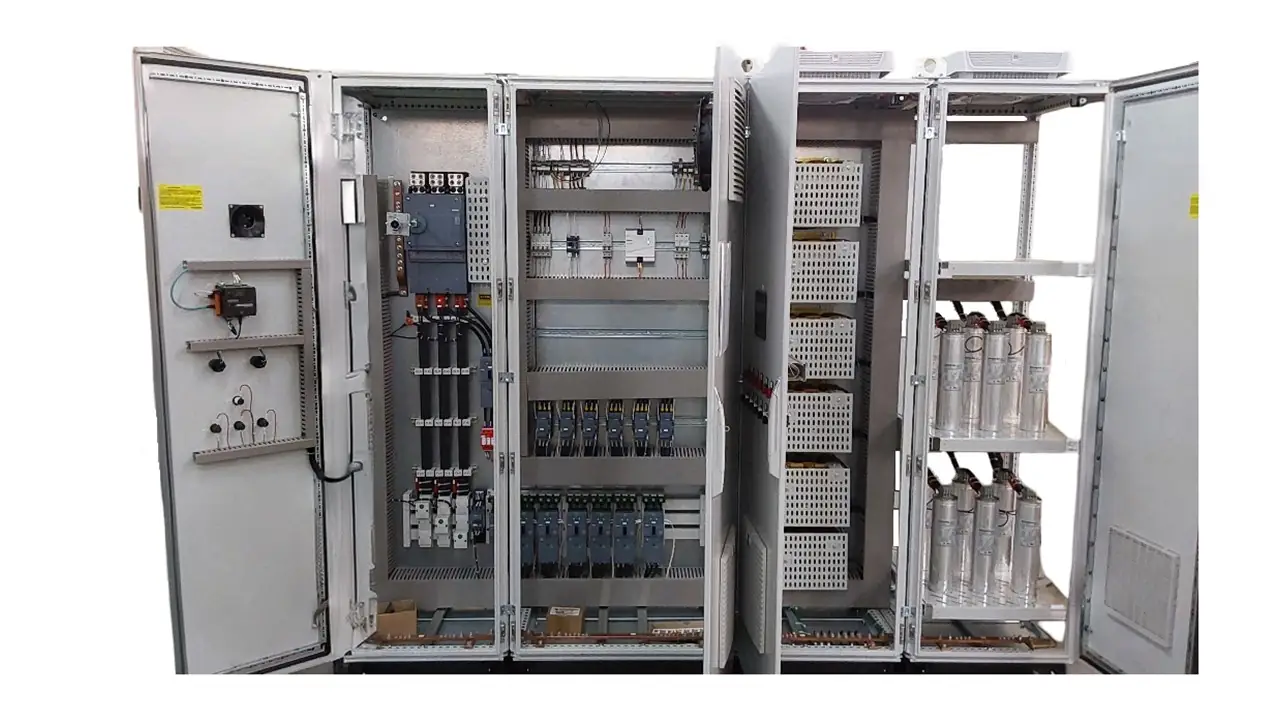
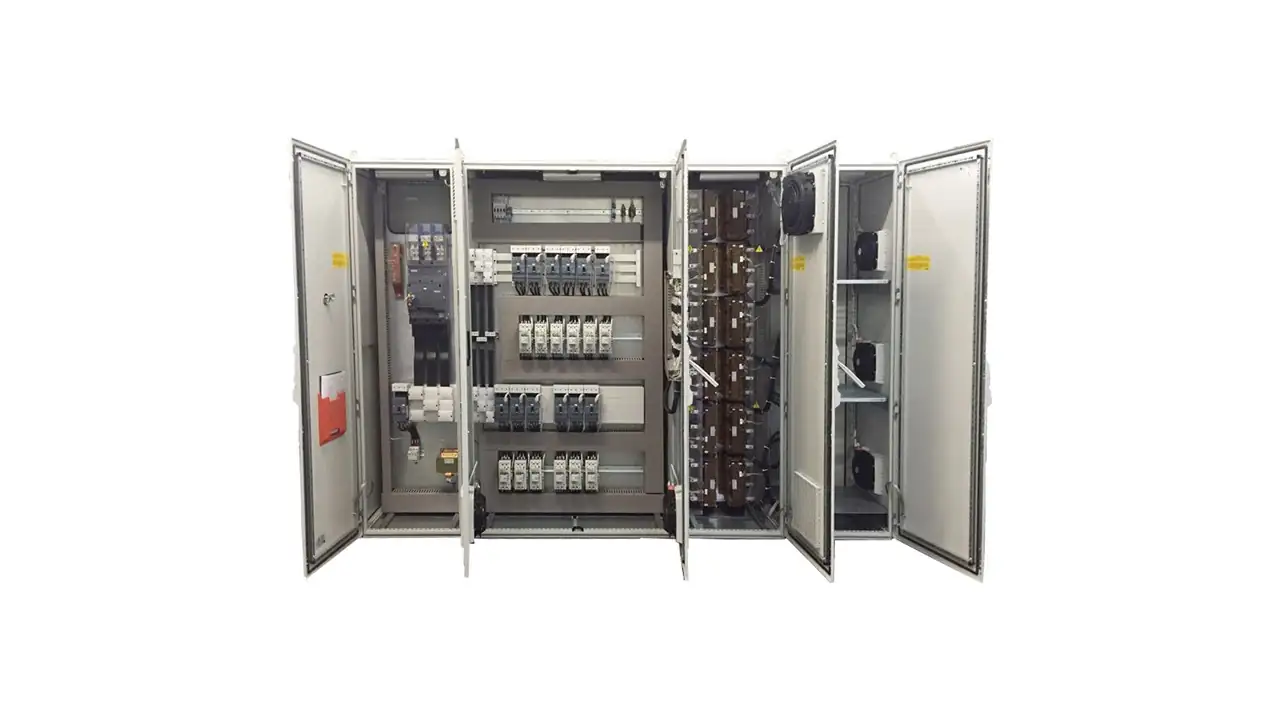
Atualizações
- Substituição de imagens
- Atualização das paginas de paineis, robos e home

diff --git a/src/components/panels/panels.vue b/src/components/panels/panels.vue
@@ -37,25 +37,26 @@
                         <button type="button" data-bs-target="#carouselCCM" data-bs-slide-to="0" class="active bg-black" aria-current="true" aria-label="Slide 1"></button>
                         <button type="button" data-bs-target="#carouselCCM" data-bs-slide-to="1" class="bg-black" aria-label="Slide 2"></button>
                         <button type="button" data-bs-target="#carouselCCM" data-bs-slide-to="2" class="bg-black" aria-label="Slide 3"></button>
-                        <button type="button" data-bs-target="#carouselCCM" data-bs-slide-to="3" class="bg-black" aria-label="Slide 4"></button>
-                        <!-- <button type="button" data-bs-target="#carouselCCM" data-bs-slide-to="4" class="bg-white" aria-label="Slide 5"></button> -->
+                        <!-- <button type="button" data-bs-target="#carouselCCM" data-bs-slide-to="3" class="bg-black" aria-label="Slide 4"></button>
+                        <button type="button" data-bs-target="#carouselCCM" data-bs-slide-to="4" class="bg-white" aria-label="Slide 5"></button> -->
                     </div>
                     <div class="carousel-inner">
-                        <div class="carousel-item active" data-bs-interval="5000">
+                        <!-- <div class="carousel-item active" data-bs-interval="5000">
                             <img src="@/assets/media/panels/ccm/ccm 1.webp" class="d-block w-100" alt="...">
-                        </div>
-                        <div class="carousel-item" data-bs-interval="5000">
+                        </div> -->
+                        <!-- <div class="carousel-item" data-bs-interval="5000">
                             <img src="@/assets/media/panels/ccm/ccm 2.webp" class="d-block w-100" alt="...">
-                        </div>
-                        <div class="carousel-item" data-bs-interval="5000">
-                            <img src="@/assets/media/panels/ccm/ccm 3.webp" class="d-block w-100" alt="...">
+                        </div> -->
+                        <div class="carousel-item active" data-bs-interval="5000">
+                            <img src="@/assets/media/panels/ccm/ccm 3.webp" class="d-block w-100" alt="..."> 
+                            <!-- editar o pallet -->
                         </div>
                         <div class="carousel-item" data-bs-interval="5000">
                             <img src="@/assets/media/panels/ccm/ccm 4.webp" class="d-block w-100" alt="...">
                         </div>
-                        <!-- <div class="carousel-item" data-bs-interval="5000">
+                        <div class="carousel-item" data-bs-interval="5000">
                             <img src="@/assets/media/panels/ccm/ccm 5.webp" class="d-block w-100" alt="...">
-                        </div> -->
+                        </div>
                     </div>
                     <button class="carousel-control-prev hover:bg-black hover:bg-opacity-15 transition ease-in-out duration-500" type="button" data-bs-target="#carouselCCM" data-bs-slide="prev">
                         <i class="fa-solid fa-chevron-left" style="color: #131313;"></i>
@@ -81,7 +82,7 @@
                         <button type="button" data-bs-target="#carouselQGBT" data-bs-slide-to="2" class="bg-black" aria-label="Slide 3"></button>
                         <button type="button" data-bs-target="#carouselQGBT" data-bs-slide-to="3" class="bg-black" aria-label="Slide 4"></button>
                         <button type="button" data-bs-target="#carouselQGBT" data-bs-slide-to="4" class="bg-black" aria-label="Slide 5"></button>
-                        <button type="button" data-bs-target="#carouselQGBT" data-bs-slide-to="5" class="bg-black" aria-label="Slide 6"></button>
+                        <!-- <button type="button" data-bs-target="#carouselQGBT" data-bs-slide-to="5" class="bg-black" aria-label="Slide 6"></button> -->
                     </div>
                     <div class="carousel-inner">
                         <div class="carousel-item active" data-bs-interval="5000">
@@ -99,9 +100,9 @@
                         <div class="carousel-item" data-bs-interval="5000">
                             <img src="@/assets/media/panels/qgbt/qgbt 5.webp" class="d-block w-100" alt="...">
                         </div>
-                        <div class="carousel-item" data-bs-interval="5000">
+                        <!-- <div class="carousel-item" data-bs-interval="5000">
                             <img src="@/assets/media/panels/qgbt/qgbt 6.webp" class="d-block w-100" alt="...">
-                        </div>
+                        </div> -->
                     </div>
                     <button class="carousel-control-prev hover:bg-black hover:bg-opacity-15 transition ease-in-out duration-500" type="button" data-bs-target="#carouselQGBT" data-bs-slide="prev">
                         <i class="fa-solid fa-chevron-left" style="color: #131313;"></i>
@@ -202,8 +203,8 @@
                         <button type="button" data-bs-target="#carouselRemota" data-bs-slide-to="0" class=" active bg-black" aria-label="Slide 1"></button>
                         <button type="button" data-bs-target="#carouselRemota" data-bs-slide-to="1" class="bg-black" aria-label="Slide 2"></button>
                         <button type="button" data-bs-target="#carouselRemota" data-bs-slide-to="2" class="bg-black" aria-label="Slide 3"></button>
-                        <!-- <button type="button" data-bs-target="#carouselRemota" data-bs-slide-to="3" class="bg-black" aria-label="Slide 4"></button>
-                        <button type="button" data-bs-target="#carouselRemota" data-bs-slide-to="4" class="bg-black" aria-label="Slide 5"></button> -->
+                        <!-- <button type="button" data-bs-target="#carouselRemota" data-bs-slide-to="3" class="bg-black" aria-label="Slide 4"></button> -->
+                        <!-- <button type="button" data-bs-target="#carouselRemota" data-bs-slide-to="4" class="bg-black" aria-label="Slide 5"></button> -->
                     </div>
                     <div class="carousel-inner">
                         <div class="carousel-item active" data-bs-interval="5000">
@@ -212,22 +213,22 @@
                         <div class="carousel-item" data-bs-interval="5000">
                             <img src="@/assets/media/panels/remota/remota 2.webp" class="d-block w-100" alt="...">
                         </div>
-                        <div class="carousel-item" data-bs-interval="5000">
+                        <!-- <div class="carousel-item" data-bs-interval="5000">
                             <img src="@/assets/media/panels/remota/remota 3.webp" class="d-block w-100" alt="...">
-                        </div>
-                        <!-- <div class="carousel-item active" data-bs-interval="5000">
-                            <img src="@/assets/media/panels/remota/remota 4.webp" class="d-block w-100" alt="...">
-                        </div>
+                        </div> -->
                         <div class="carousel-item" data-bs-interval="5000">
+                            <img src="@/assets/media/panels/remota/mesa comando.webp" class="d-block w-100" alt="...">
+                        </div>
+                        <!-- <div class="carousel-item" data-bs-interval="5000">
                             <img src="@/assets/media/panels/remota/remota 5.webp" class="d-block w-100" alt="...">
-                        </div>
-                        <div class="carousel-item" data-bs-interval="5000">
+                        </div> -->
+                        <!-- <div class="carousel-item" data-bs-interval="5000">
                             <img src="@/assets/media/panels/remota/remota 6.webp" class="d-block w-100" alt="...">
-                        </div>
-                        <div class="carousel-item" data-bs-interval="5000">
+                        </div> -->
+                        <!-- <div class="carousel-item" data-bs-interval="5000">
                             <img src="@/assets/media/panels/remota/remota 7.webp" class="d-block w-100" alt="...">
-                        </div>
-                        <div class="carousel-item" data-bs-interval="5000">
+                        </div> -->
+                        <!-- <div class="carousel-item" data-bs-interval="5000">
                             <img src="@/assets/media/panels/remota/remota 8.webp" class="d-block w-100" alt="...">
                         </div> -->
                     </div>
@@ -285,9 +286,9 @@
                         <button type="button" data-bs-target="#carouselQDFL" data-bs-slide-to="0" class="active bg-black" aria-current="true" aria-label="Slide 1"></button>
                         <button type="button" data-bs-target="#carouselQDFL" data-bs-slide-to="1" class="bg-black" aria-label="Slide 2"></button>
                         <button type="button" data-bs-target="#carouselQDFL" data-bs-slide-to="2" class="bg-black" aria-label="Slide 3"></button>
-                        <!-- <button type="button" data-bs-target="#carouselQDFL" data-bs-slide-to="3" class="bg-black" aria-label="Slide 4"></button>
-                        <button type="button" data-bs-target="#carouselQDFL" data-bs-slide-to="4" class="bg-black" aria-label="Slide 5"></button>
-                        <button type="button" data-bs-target="#carouselQDFL" data-bs-slide-to="5" class="bg-black" aria-label="Slide 6"></button> -->
+                        <button type="button" data-bs-target="#carouselQDFL" data-bs-slide-to="3" class="bg-black" aria-label="Slide 4"></button>
+                        <!-- <button type="button" data-bs-target="#carouselQDFL" data-bs-slide-to="4" class="bg-black" aria-label="Slide 5"></button> -->
+                        <!-- <button type="button" data-bs-target="#carouselQDFL" data-bs-slide-to="5" class="bg-black" aria-label="Slide 6"></button> -->
                     </div>
                     <div class="carousel-inner">
                         <div class="carousel-item active" data-bs-interval="5000">
@@ -299,13 +300,13 @@
                         <div class="carousel-item" data-bs-interval="5000">
                             <img src="@/assets/media/panels/qdfl/qdfl 3.webp" class="d-block w-100" alt="...">
                         </div>
-                        <!-- <div class="carousel-item" data-bs-interval="5000">
+                        <div class="carousel-item" data-bs-interval="5000">
                             <img src="@/assets/media/panels/qdfl/qdfl 4.webp" class="d-block w-100" alt="...">
                         </div>
-                        <div class="carousel-item" data-bs-interval="5000">
+                        <!-- <div class="carousel-item" data-bs-interval="5000">
                             <img src="@/assets/media/panels/qdfl/qdfl 5.webp" class="d-block w-100" alt="...">
-                        </div>
-                        <div class="carousel-item" data-bs-interval="5000">
+                        </div> -->
+                        <!-- <div class="carousel-item" data-bs-interval="5000">
                             <img src="@/assets/media/panels/qdfl/qdfl 6.webp" class="d-block w-100" alt="...">
                         </div> -->
                     </div>
@@ -331,16 +332,20 @@
                         <button type="button" data-bs-target="#carouselSubstacao" data-bs-slide-to="0" class="active bg-black" aria-current="true" aria-label="Slide 1"></button>
                         <button type="button" data-bs-target="#carouselSubstacao" data-bs-slide-to="1" class="bg-black" aria-label="Slide 2"></button>
                         <button type="button" data-bs-target="#carouselSubstacao" data-bs-slide-to="2" class="bg-black" aria-label="Slide 3"></button>
+                        <button type="button" data-bs-target="#carouselSubstacao" data-bs-slide-to="3" class="bg-black" aria-label="Slide 4"></button>
                     </div>
                     <div class="carousel-inner">
                         <div class="carousel-item active" data-bs-interval="5000">
-                            <img src="@/assets/media/home/1.png" class="d-block w-100" alt="...">
+                            <img src="@/assets/media/panels/subestacao/subestacao 1.webp" class="d-block w-100" alt="...">
                         </div>
                         <div class="carousel-item" data-bs-interval="5000">
-                            <img src="@/assets/media/home/2.png" class="d-block w-100" alt="...">
+                            <img src="@/assets/media/panels/subestacao/subestacao 2.webp" class="d-block w-100" alt="...">
                         </div>
                         <div class="carousel-item" data-bs-interval="5000">
-                            <img src="@/assets/media/home/3.png" class="d-block w-100" alt="...">
+                            <img src="@/assets/media/panels/subestacao/subestacao 3.webp" class="d-block w-100" alt="...">
+                        </div>
+                        <div class="carousel-item" data-bs-interval="5000">
+                            <img src="@/assets/media/panels/subestacao/subestacao 4.webp" class="d-block w-100" alt="...">
                         </div>
                     </div>
                     <button class="carousel-control-prev hover:bg-black hover:bg-opacity-15 transition ease-in-out duration-500" type="button" data-bs-target="#carouselSubstacao" data-bs-slide="prev">
@@ -377,7 +382,15 @@
                     <div class="relative inline-block">
                         <span class="relative z-10 p-1"> soluções completas </span>
                         <span class="absolute inset-0 bg-cyan-400 h-full w-0 group rounded-lg"></span>
-                    </div>para subestações, desde a elaboração de projetos até o fornecimento dos equipamentos que a compõe, incluindo Cubículos de média tensão, transformadores, QGBT’s, Busway, Remotas para digitalização de subestações, equipamentos para monitoramento de umidade e temperatura. Além disso, nossa Subestação unitária está preparada para atender às demandas da Indústria 4.0, integrando soluções de IoT que permitem monitoramento remoto em tempo real, coleta de dados e manutenção preditiva, elevando a eficiência e a automação do processo industrial.
+                    </div>para subestações, desde a elaboração de projetos até o fornecimento dos equipamentos que a compõe, incluindo Cubículos de média tensão, transformadores, QGBT’s, Busway, Remotas para
+                    <div class="relative inline-block">
+                        <span class="relative z-10 p-1"> digitalização de subestações</span>
+                        <span class="absolute inset-0 bg-cyan-400 h-full w-0 group rounded-lg"></span>
+                    </div>, equipamentos para monitoramento de umidade e temperatura. Além disso, nossa Subestação unitária está preparada para atender às demandas da Indústria 4.0, integrando soluções de IoT que permitem 
+                    <div class="relative inline-block">
+                        <span class="relative z-10 p-1"> monitoramento remoto</span>
+                        <span class="absolute inset-0 bg-cyan-400 h-full w-0 group rounded-lg"></span>
+                    </div> em tempo real, coleta de dados e manutenção preditiva, elevando a eficiência e a automação do processo industrial.
                     <!-- <div class="relative inline-block">
                         <span class="relative z-10 p-1"> 24 kV e 25 kA</span>
                         <span class="absolute inset-0 bg-cyan-400 h-full w-0 group rounded-lg"></span>
@@ -447,7 +460,7 @@
         xs:max-lg:flex-col xs:max-lg:pb-8 xs:max-sm:px-0">
             <div v-motion-slide-visible-once-left :duration="1000" class="lg:w-6/12 relative py-4 xs:max-sm:w-11/12">
                 <h3 class="mb-6 text-[#012a62] uppercase font-bold sm:text-4xl xs:max-xl:text-2xl xs:max-sm:text-center">
-                    Quadros Eletropneumático
+                    Painéis Eletropneumáticos
                 </h3>
                 <div class="text-lg pb-12 sm:max-xl:text-lg xs:max-sm:text-justify xs:max-sm:pb-8 xs:max-sm:text-md">
                     <!-- O Quadro de Iluminação e Tomadas atende aos rigorosos requisitos da norma ABNT NBR IEC 61439-1&2, garantindo desempenho certificado em projeto, construção e operação. Com acesso frontal para todas as conexões, proporciona
@@ -459,7 +472,15 @@
                         <span class="relative z-10 p-1"> fácil acessibilidade</span>
                         <span class="absolute inset-0 bg-cyan-400 h-full w-0 group rounded-lg"></span>
                     </div> ao interior do painel, priorizando a confiabilidade e a segurança tanto da instalação quanto das pessoas envolvidas. -->
-                    Os painéis eletropneumáticos são projetados para garantir continuidade de serviço, com todas as conexões acessíveis pela frente do painel, o que reduz significativamente o tempo de intervenção e manutenção. Seu design compacto contribui para a otimização de espaço na instalação, sem comprometer a funcionalidade. Além disso, a acessibilidade ao interior do painel é facilitada, proporcionando intervenções mais rápidas e seguras. A confiabilidade desses sistemas garante uma operação estável e contínua, ao mesmo tempo que a segurança da instalação e das pessoas é priorizada. Integrados à tecnologia IoT e às demandas da Indústria 4.0, esses painéis permitem o monitoramento remoto, coleta de dados em tempo real e manutenção preditiva, aumentando a eficiência e a automação dos processos industriais.
+                    Os painéis eletropneumáticos são projetados para garantir continuidade de serviço, com todas as conexões de operação e controle acessíveis pela parte frontal do painel, o que reduz significativamente o tempo de intervenção e manutenção. O 
+                    <div class="relative inline-block">
+                        <span class="relative z-10 p-1">design compacto</span>
+                        <span class="absolute inset-0 bg-cyan-400 h-full w-0 group rounded-lg"></span>
+                    </div> contribui para a otimização de espaço na instalação, sem comprometer a funcionalidade. Além disso, a estrutura do painel permite fácil acesso ao seu interior para inspeção e reparos internos, proporcionando intervenções mais rápidas e seguras quando necessário. A confiabilidade desses sistemas garante uma operação 
+                    <div class="relative inline-block">
+                        <span class="relative z-10 p-1">estável e contínua</span>
+                        <span class="absolute inset-0 bg-cyan-400 h-full w-0 group rounded-lg"></span>
+                    </div>, enquanto a segurança da instalação e das pessoas é sempre priorizada.
                 </div>
             </div>
             <div v-motion-slide-visible-once-right :duration="1000" class="h-fit 

diff --git a/src/components/home/products-sections.vue b/src/components/home/products-sections.vue
@@ -91,7 +91,7 @@
                             </div>
                         </div>
                         <div class="carousel-item" data-bs-interval="5000">
-                            <img src="@/assets/media/home/1.png" class="d-block w-100" alt="...">
+                            <img src="@/assets/media/panels/subestacao/subestacao 1.webp" class="d-block w-100" alt="...">
                             <div class="carousel-caption d-none d-md-block text-white bg-black opacity-80">
                                 <h5></h5>
                             </div>
@@ -137,61 +137,61 @@
                     </div>
                     <div class="carousel-inner">
                         <div class="carousel-item active" data-bs-interval="5000">
-                            <img src="@/assets/media/projects/projeto geradores 1.jpg" class="d-block w-100" alt="...">
+                            <img src="@/assets/media/projects/projeto geradores 1.webp" class="d-block w-100" alt="...">
                             <div class="carousel-caption d-none d-md-block text-white bg-black opacity-80">
                                 <h5></h5>
                             </div>
                         </div>
                         <div class="carousel-item" data-bs-interval="5000">
-                            <img src="@/assets/media/projects/projeto geradores 2.jpg" class="d-block w-100" alt="...">
+                            <img src="@/assets/media/projects/projeto geradores 2.webp" class="d-block w-100" alt="...">
                             <div class="carousel-caption d-none d-md-block text-white bg-black opacity-80">
                                 <h5></h5>
                             </div>
                         </div>
                         <div class="carousel-item" data-bs-interval="5000">
-                            <img src="@/assets/media/projects/projeto geradores 3.jpg" class="d-block w-100" alt="...">
+                            <img src="@/assets/media/projects/projeto geradores 3.webp" class="d-block w-100" alt="...">
                             <div class="carousel-caption d-none d-md-block text-white bg-black opacity-80">
                                 <h5></h5>
                             </div>
                         </div>
                         <div class="carousel-item" data-bs-interval="5000">
-                            <img src="@/assets/media/projects/projeto geradores 4.jpg" class="d-block w-100" alt="...">
+                            <img src="@/assets/media/projects/projeto geradores 4.webp" class="d-block w-100" alt="...">
                             <div class="carousel-caption d-none d-md-block text-white bg-black opacity-80">
                                 <h5></h5>
                             </div>
                         </div>
                         <div class="carousel-item" data-bs-interval="5000">
-                            <img src="@/assets/media/projects/projeto geradores 5.jpg" class="d-block w-100" alt="...">
+                            <img src="@/assets/media/projects/projeto geradores 5.webp" class="d-block w-100" alt="...">
                             <div class="carousel-caption d-none d-md-block text-white bg-black opacity-80">
                                 <h5></h5>
                             </div>
                         </div>
                         <!-- <div class="carousel-item" data-bs-interval="5000">
-                            <img src="@/assets/media/projects/projeto geradores 6.jpg" class="d-block w-100" alt="...">
+                            <img src="@/assets/media/projects/projeto geradores 6.webp" class="d-block w-100" alt="...">
                             <div class="carousel-caption d-none d-md-block text-white bg-black opacity-80">
                                 <h5></h5>
                             </div>
                         </div> -->
                         <div class="carousel-item" data-bs-interval="5000">
-                            <img src="@/assets/media/projects/projeto geradores 7.jpg" class="d-block w-100" alt="...">
+                            <img src="@/assets/media/projects/projeto geradores 7.webp" class="d-block w-100" alt="...">
                             <div class="carousel-caption d-none d-md-block text-white bg-black opacity-80">
                                 <h5></h5>
                             </div>
                         </div>
                         <div class="carousel-item" data-bs-interval="5000">
-                            <img src="@/assets/media/projects/projeto geradores 8.jpg" class="d-block w-100" alt="...">
+                            <img src="@/assets/media/projects/projeto geradores 8.webp" class="d-block w-100" alt="...">
                             <div class="carousel-caption d-none d-md-block text-white bg-black opacity-80">
                                 <h5></h5>
                             </div>
                         </div>
                         <div class="carousel-item" data-bs-interval="5000">
-                            <img src="@/assets/media/projects/projeto silk 1.jpg" class="d-block w-100" alt="...">
+                            <img src="@/assets/media/projects/projeto silk 1.webp" class="d-block w-100" alt="...">
                             <div class="carousel-caption d-none d-md-block text-white bg-black opacity-80">
                                 <h5></h5>
                             </div>
                         </div>
                         <div class="carousel-item" data-bs-interval="5000">
-                            <img src="@/assets/media/projects/projeto silk 2.jpg" class="d-block w-100" alt="...">
+                            <img src="@/assets/media/projects/projeto silk 2.webp" class="d-block w-100" alt="...">
                             <div class="carousel-caption d-none d-md-block text-white bg-black opacity-80">
                                 <h5></h5>
                             </div>
@@ -223,7 +223,7 @@
                     <div class="relative inline-block">
                         <span class="relative z-10 p-1"> tecnologia avançada </span>
                         <span class="absolute inset-0 bg-cyan-400 h-full w-0 group rounded-lg"></span>
-                    </div> estrita conformidade com normas de segurança, oferecemos soluções que proporcionam alta
+                    </div>e estrita conformidade com normas de segurança, oferecemos soluções que proporcionam alta
                     performance e confiabilidade. Descubra como podemos otimizar seus processos industriais com nossos
                     serviços especializados em projetos elétricos.
                 </div>

diff --git a/src/components/robots/robots.vue b/src/components/robots/robots.vue
@@ -18,9 +18,9 @@
                     xs:max-lg:text-xl lg:max-xl:text-xl lg:mb-6
                     xs:max-xl:text-2xl xs:max-md:mb-4 
                     xl:max-2xl:text-xl xl:mb-5">O que é o robô sinalizador</h3>
-                    <p class="text-base 
+                    <p class="text-sm 
                     xs:max-md:text-sm 
-                    xl:max-2xl:text-sm">O Robô sinalizador DISCOMPLESIN é um Dispositivo Complementar de Sinalização, equipado com bandeira e luz intermitente laranja, destinado a complementar a sinalização em rodovias, alertando motoristas sobre condições inseguras à frente. Projetado para operar em condições climáticas adversas, possui sistemas manuais e automáticos para controle de iluminação e sinalização, garantindo operação segura em baixa visibilidade. Com autonomia de até 52 horas, supera significativamente a capacidade de operadores humanos.</p>
+                    xl:max-2xl:text-sm">O Robô sinalizador DISCOMPLESIN é um Dispositivo Complementar de Sinalização, equipado com bandeira e luz intermitente laranja, destinado a complementar a sinalização em rodovias, alertando motoristas sobre condições inseguras à frente. Projetado para operar em condições climáticas adversas, possui sistemas manuais e automáticos para controle de iluminação e sinalização, garantindo operação segura em baixa visibilidade. Com autonomia de até 40 horas, supera significativamente a capacidade de operadores humanos. O DISCOMPLESIN está disponível tanto para locação quanto para venda, oferecendo flexibilidade conforme a necessidade do cliente.</p>
                 </div>
             </div>
             <div v-motion-slide-right :duration="1000" class="flex h-96 bg-[#e8e8e8] m-12 rounded-2xl hover:shadow-2xl duration-500
@@ -135,7 +135,7 @@
                         </li>
                         <li class="text-xl xs:max-md:text-base">
                             <i class="fa-solid fa-heart-pulse mr-2 my-3"></i>
-                            <span>Autonomia da bateria: 48h</span>
+                            <span>Autonomia da bateria: 40h</span>
                         </li>
                         <li class="text-xl xs:max-md:text-sm">
                             <i class="fa-solid fa-bolt mr-2 my-3"></i>
